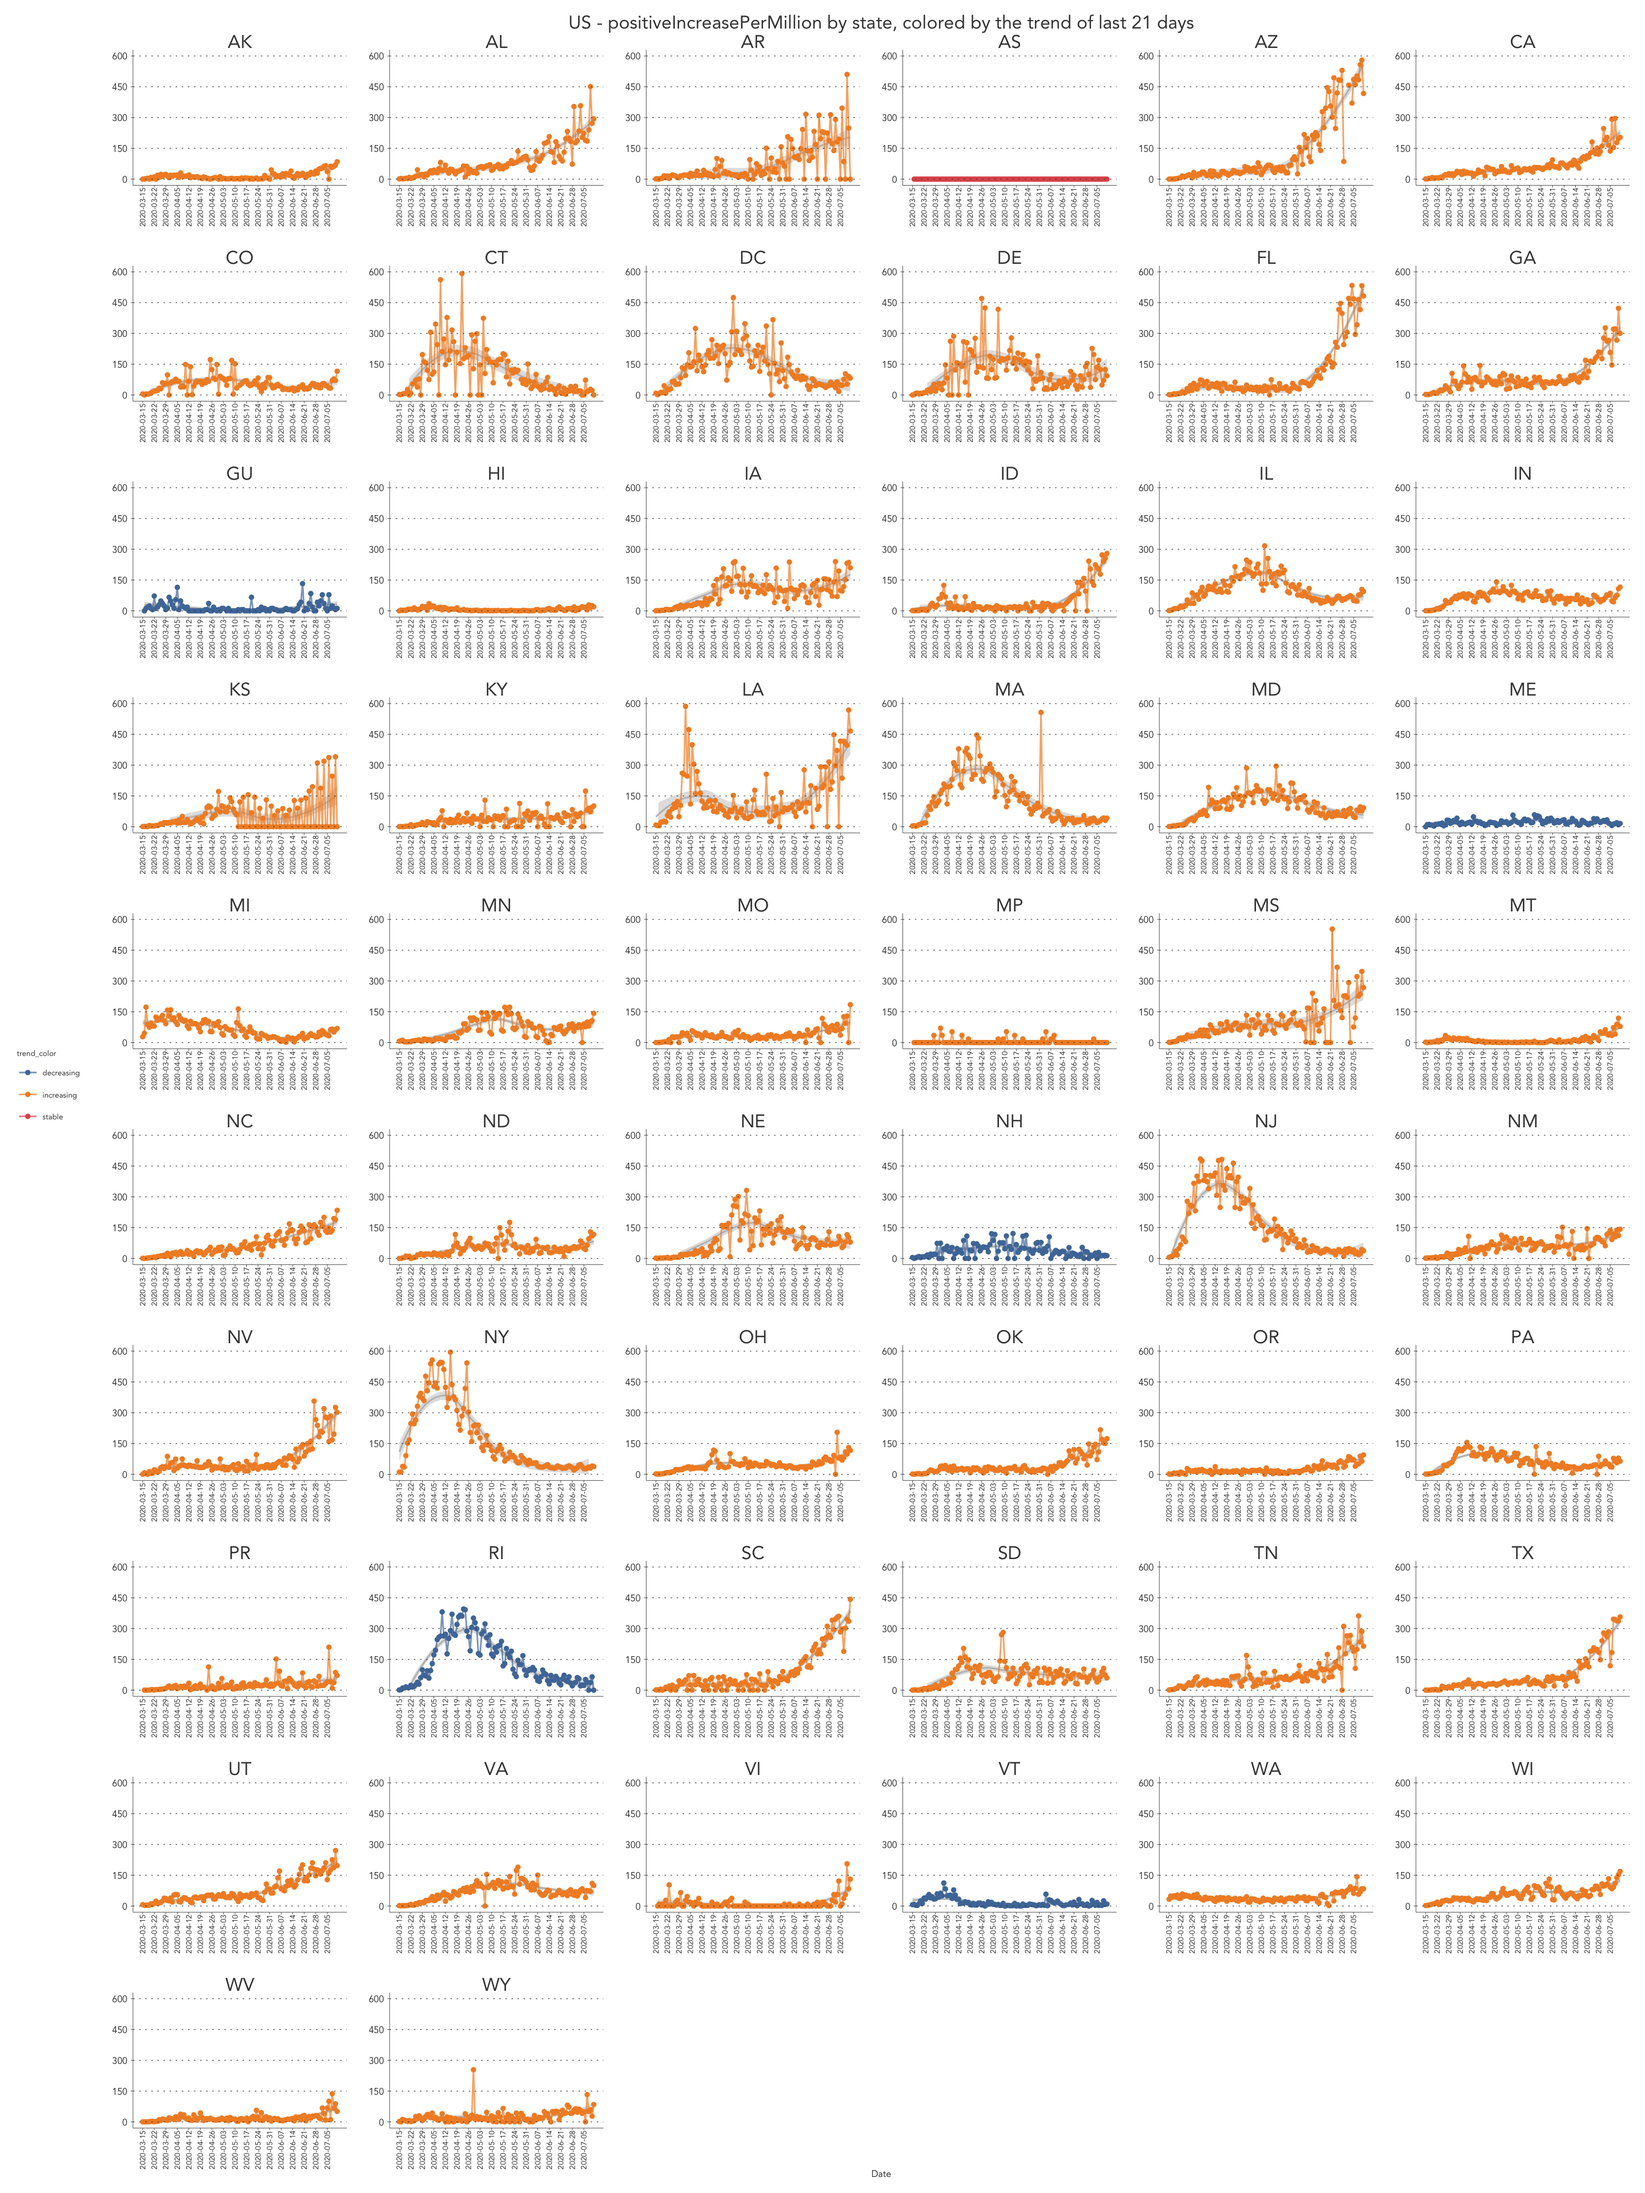
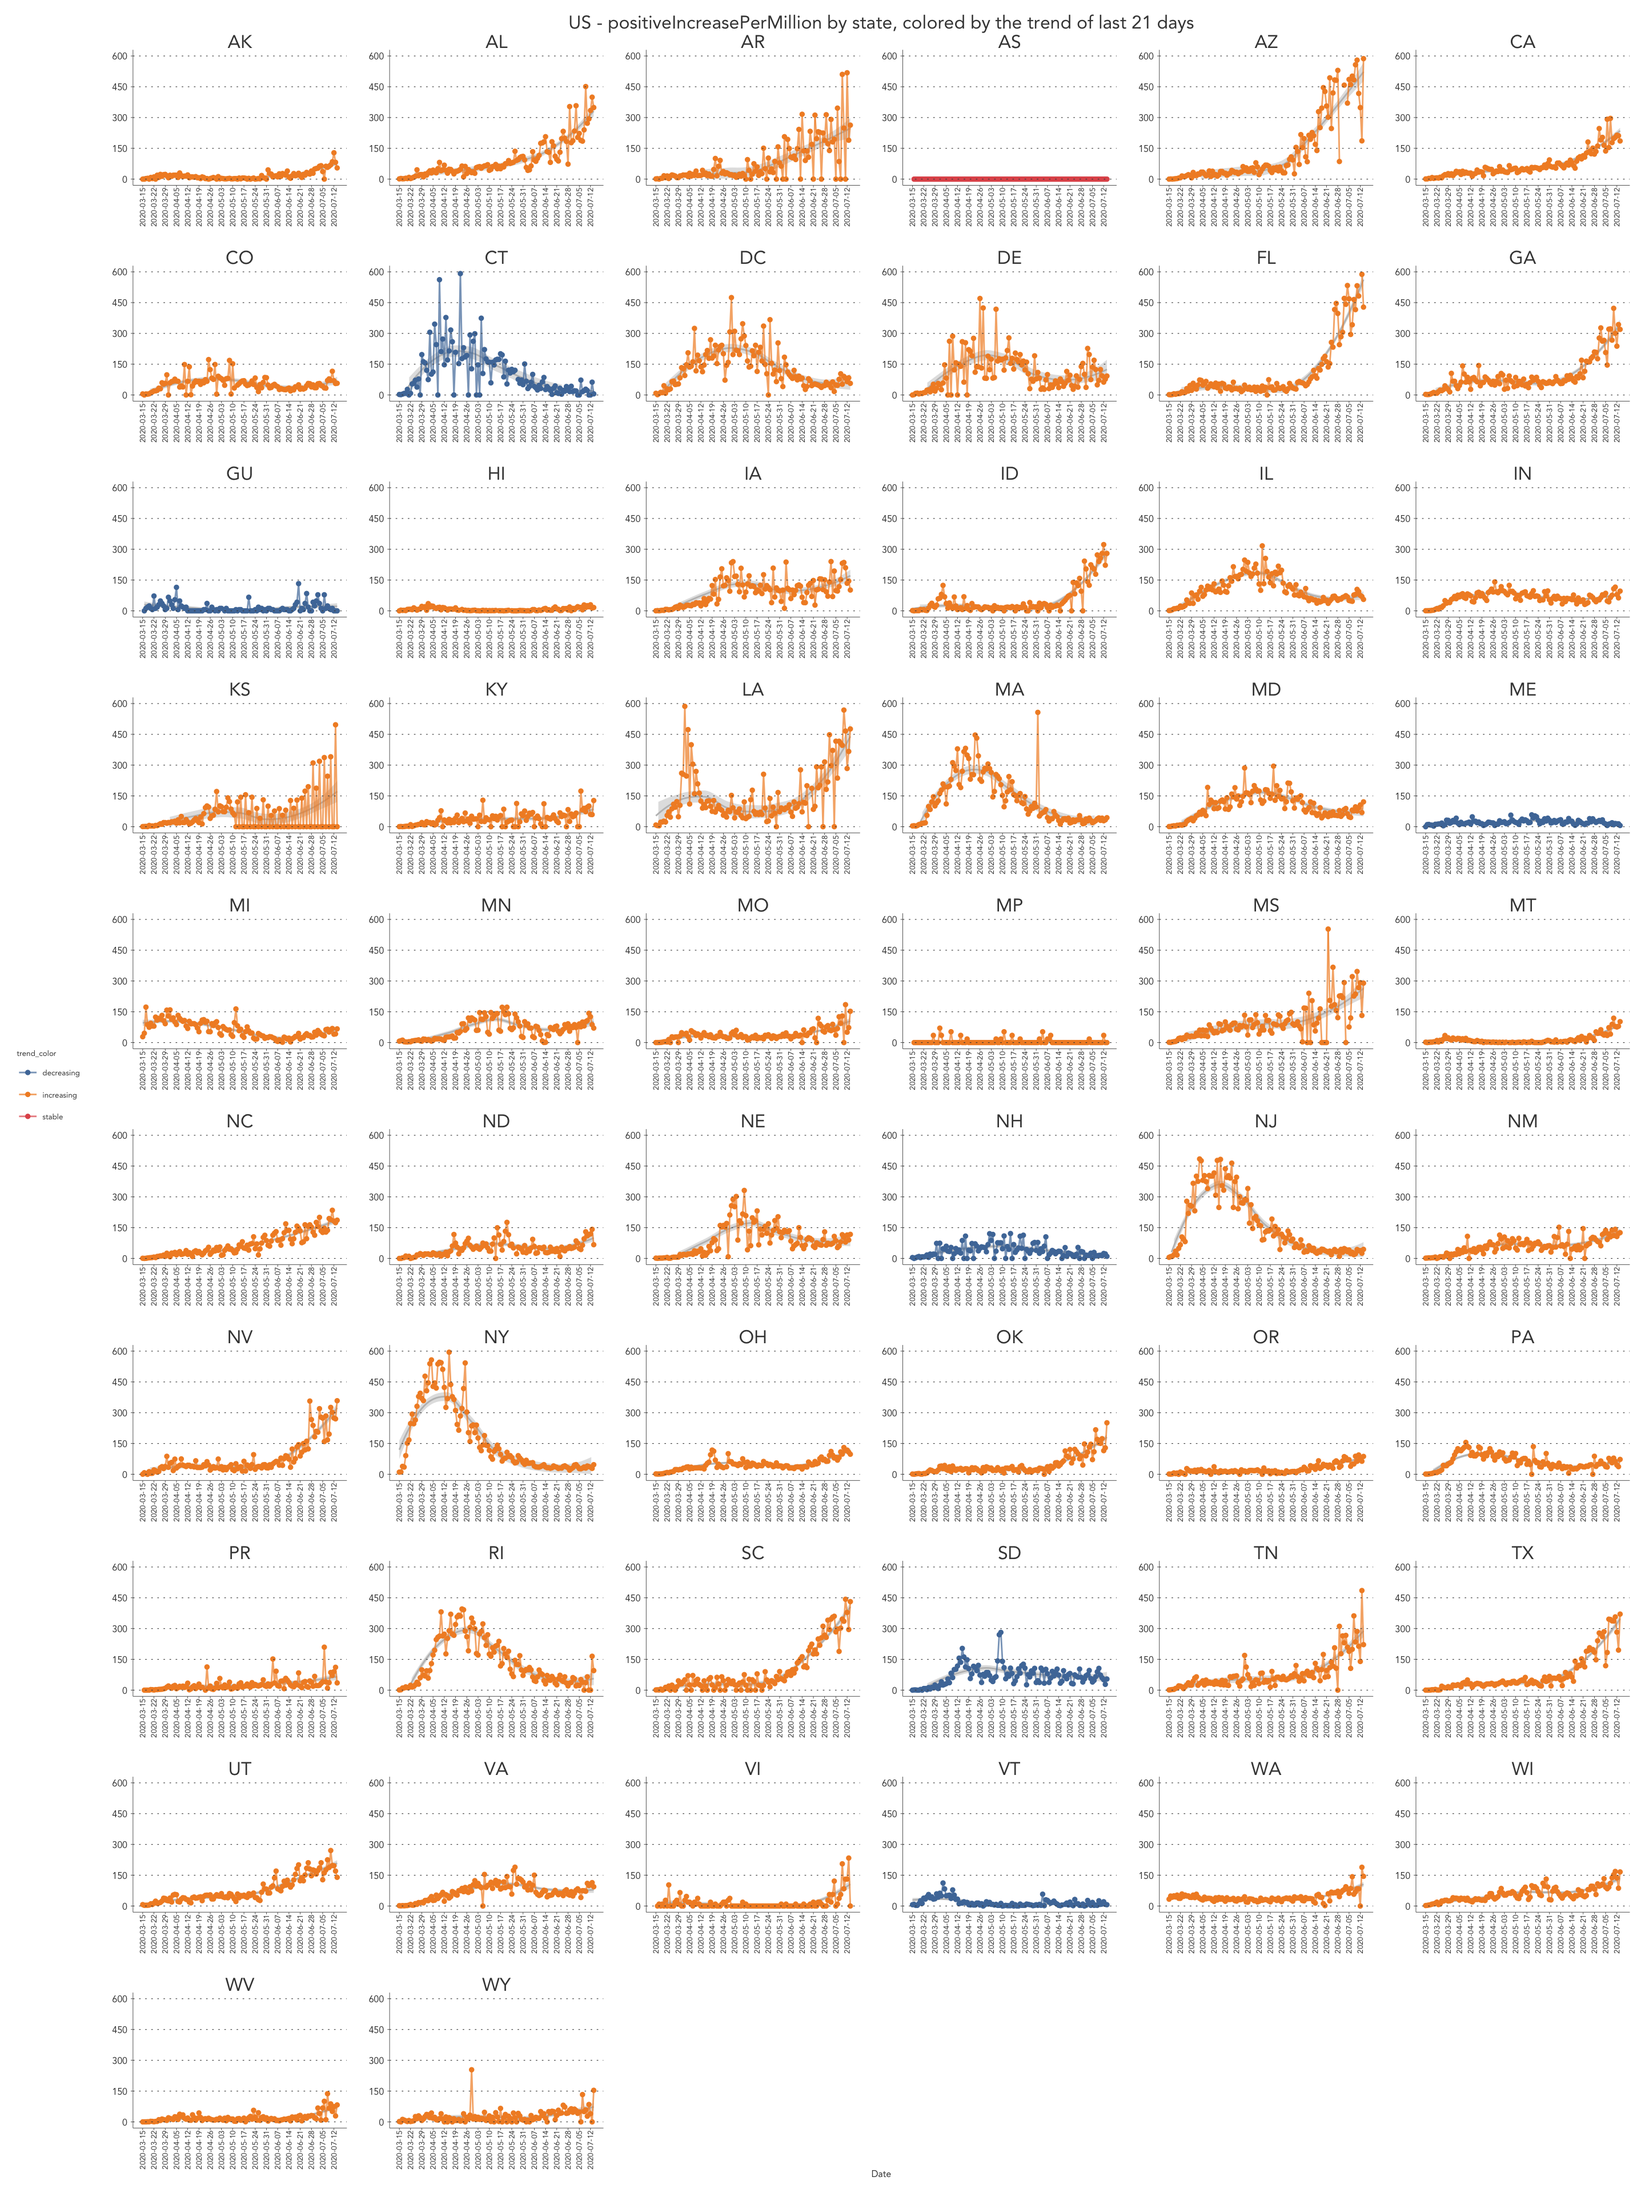
0715 up

diff --git a/covid19-vis.html b/covid19-vis.html
@@ -311,22 +311,22 @@ population
 <tbody>
 <tr>
 <td style="text-align:left;">
-2020-07-11
+2020-07-14
 </td>
 <td style="text-align:left;">
 AK
 </td>
 <td style="text-align:right;">
-1385
+1579
 </td>
 <td style="text-align:right;">
-141991
+147894
 </td>
 <td style="text-align:right;">
 0
 </td>
 <td style="text-align:right;">
-31
+25
 </td>
 <td style="text-align:right;">
 0
@@ -344,19 +344,19 @@ AK
 0
 </td>
 <td style="text-align:right;">
-598
+642
 </td>
 <td style="text-align:left;">
 A
 </td>
 <td style="text-align:left;">
-7/11/2020 00:00
+7/14/2020 00:00
 </td>
 <td style="text-align:left;">
-2020-07-11T00:00:00Z
+2020-07-14T00:00:00Z
 </td>
 <td style="text-align:left;">
-07/10 20:00
+07/13 20:00
 </td>
 <td style="text-align:right;">
 17
@@ -365,10 +365,10 @@ A
 0
 </td>
 <td style="text-align:left;">
-2020-07-11T00:00:00Z
+2020-07-14T00:00:00Z
 </td>
 <td style="text-align:right;">
-143376
+149473
 </td>
 <td style="text-align:right;">
 0
@@ -389,22 +389,22 @@ A
 2
 </td>
 <td style="text-align:right;">
-62
+40
 </td>
 <td style="text-align:right;">
-1383
+2843
 </td>
 <td style="text-align:right;">
-143376
+149473
 </td>
 <td style="text-align:right;">
-143376
+149473
 </td>
 <td style="text-align:right;">
-1445
+2883
 </td>
 <td style="text-align:right;">
-143376
+149473
 </td>
 <td style="text-align:right;">
 0
@@ -413,7 +413,7 @@ A
 0
 </td>
 <td style="text-align:left;">
-d88f70b7bfa373ef0fb14998ccb0d0d3a9c806fb
+14ec620d73185257a210b3f634cca1a8024dabe0
 </td>
 <td style="text-align:right;">
 0
@@ -439,37 +439,37 @@ d88f70b7bfa373ef0fb14998ccb0d0d3a9c806fb
 </tr>
 <tr>
 <td style="text-align:left;">
-2020-07-11
+2020-07-14
 </td>
 <td style="text-align:left;">
 AL
 </td>
 <td style="text-align:right;">
-51947
+57255
 </td>
 <td style="text-align:right;">
-450073
-</td>
-<td style="text-align:right;">
-0
-</td>
-<td style="text-align:right;">
-1068
-</td>
-<td style="text-align:right;">
-6745
+471834
 </td>
 <td style="text-align:right;">
 0
 </td>
 <td style="text-align:right;">
-904
+1353
+</td>
+<td style="text-align:right;">
+7123
 </td>
 <td style="text-align:right;">
 0
 </td>
 <td style="text-align:right;">
-496
+931
+</td>
+<td style="text-align:right;">
+0
+</td>
+<td style="text-align:right;">
+511
 </td>
 <td style="text-align:right;">
 25783
@@ -478,22 +478,22 @@ AL
 B
 </td>
 <td style="text-align:left;">
-7/10/2020 11:00
+7/14/2020 11:00
 </td>
 <td style="text-align:left;">
-2020-07-10T11:00:00Z
+2020-07-14T11:00:00Z
 </td>
 <td style="text-align:left;">
-07/10 07:00
+07/14 07:00
 </td>
 <td style="text-align:right;">
-1114
+1164
 </td>
 <td style="text-align:right;">
-6745
+7123
 </td>
 <td style="text-align:left;">
-2020-07-10T11:00:00Z
+2020-07-14T11:00:00Z
 </td>
 <td style="text-align:right;">
 0
@@ -505,10 +505,10 @@ B
 0
 </td>
 <td style="text-align:right;">
-51294
+56441
 </td>
 <td style="text-align:right;">
-1086
+1136
 </td>
 <td style="text-align:right;">
 28
@@ -517,31 +517,31 @@ B
 1
 </td>
 <td style="text-align:right;">
-1439
+1710
 </td>
 <td style="text-align:right;">
-8365
+7775
 </td>
 <td style="text-align:right;">
-502020
+529089
 </td>
 <td style="text-align:right;">
-502020
+529089
 </td>
 <td style="text-align:right;">
-9804
+9485
 </td>
 <td style="text-align:right;">
-502020
+529089
 </td>
 <td style="text-align:right;">
-10
+40
 </td>
 <td style="text-align:right;">
-3656
+378
 </td>
 <td style="text-align:left;">
-d4bd3a01be0c8af28a542861a4de75cf38649a10
+820cd0cab43d1d4994f54d9f80d70d3ce3257dbe
 </td>
 <td style="text-align:right;">
 0
@@ -567,64 +567,64 @@ d4bd3a01be0c8af28a542861a4de75cf38649a10
 </tr>
 <tr>
 <td style="text-align:left;">
-2020-07-11
+2020-07-14
 </td>
 <td style="text-align:left;">
 AR
 </td>
 <td style="text-align:right;">
-26803
+29733
 </td>
 <td style="text-align:right;">
-342846
-</td>
-<td style="text-align:right;">
-0
-</td>
-<td style="text-align:right;">
-402
-</td>
-<td style="text-align:right;">
-1780
+360566
 </td>
 <td style="text-align:right;">
 0
 </td>
 <td style="text-align:right;">
+445
+</td>
+<td style="text-align:right;">
+1872
+</td>
+<td style="text-align:right;">
 0
 </td>
 <td style="text-align:right;">
-84
+0
 </td>
 <td style="text-align:right;">
-265
+91
 </td>
 <td style="text-align:right;">
-20642
+273
+</td>
+<td style="text-align:right;">
+22844
 </td>
 <td style="text-align:left;">
 A
 </td>
 <td style="text-align:left;">
-7/10/2020 19:46
+7/14/2020 15:43
 </td>
 <td style="text-align:left;">
-2020-07-10T19:46:00Z
+2020-07-14T15:43:00Z
 </td>
 <td style="text-align:left;">
-07/10 15:46
+07/14 11:43
 </td>
 <td style="text-align:right;">
-313
+331
 </td>
 <td style="text-align:right;">
-1780
+1872
 </td>
 <td style="text-align:left;">
-2020-07-10T19:46:00Z
+2020-07-14T15:43:00Z
 </td>
 <td style="text-align:right;">
-369649
+389505
 </td>
 <td style="text-align:right;">
 0
@@ -633,7 +633,7 @@ A
 0
 </td>
 <td style="text-align:right;">
-26803
+29733
 </td>
 <td style="text-align:right;">
 0
@@ -645,31 +645,31 @@ A
 5
 </td>
 <td style="text-align:right;">
-0
+794
 </td>
 <td style="text-align:right;">
-4237
+6531
 </td>
 <td style="text-align:right;">
-369649
+390299
 </td>
 <td style="text-align:right;">
-369649
+390299
 </td>
 <td style="text-align:right;">
-4237
+7325
 </td>
 <td style="text-align:right;">
-369649
+390299
 </td>
 <td style="text-align:right;">
-0
+8
 </td>
 <td style="text-align:right;">
-37
+36
 </td>
 <td style="text-align:left;">
-cf7bc086392c6c7082486593d6b67d8274da8321
+815df27dba712c14d4f70512eb9b4b6523a88525
 </td>
 <td style="text-align:right;">
 0
